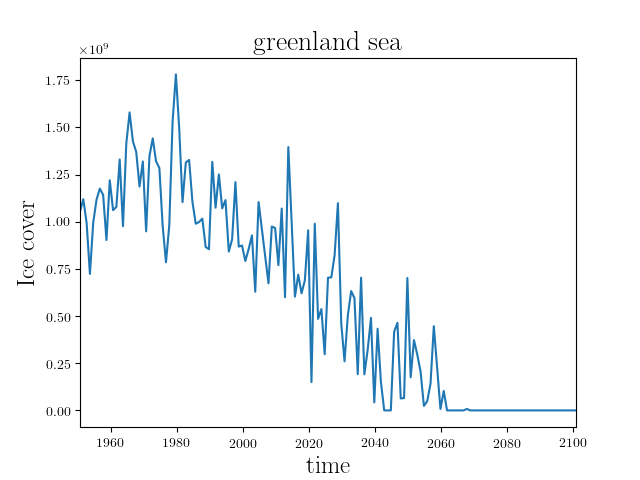
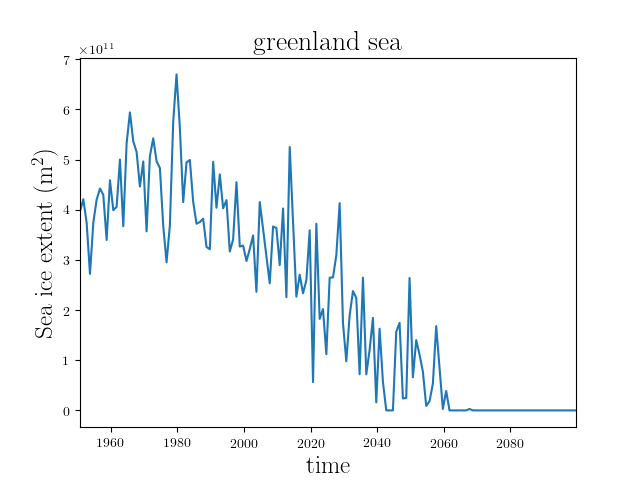
fixed the sea ice extension unit (mean->sum)

diff --git a/Forcings/basic_map.py b/Forcings/basic_map.py
@@ -16,11 +16,12 @@ import numpy as np
 import make_plot
 import loading
 
-var = 'ML'
-option = 'Coupled'
+var = 'runoff'		#sal, runoff, albedo, downHF
+option = 'Uncoupled'
 specificity = ''
-y1 = 2090
+y1 = 2050
 y2 = 2100
+control = 'Uncoupled'   # Uncoupled or historic
 
 comparison = 'yes'
 
@@ -42,8 +43,8 @@ class From1950to2100():                                                         
                            +str(self.y2)+'_'+str(option)                                #//
      elif compa == 'yes':
         self.output_file = str(var)+'_map_'+str(self.y1)+'to'\
-                           +str(self.y2)+'AnoTo90s_'+str(option)                                #//
-     self.path = '/media/fig010/LACIE SHARE/EC_Earth/EC_data/EC_start_'+str(option)+'.nc'
+                           +str(self.y2)                                #//
+     self.path = '/media/fig010/LACIE SHARE/EC_Earth/EC_data/Forcings_'+str(option)+'.nc'
 
      if compa == 'yes':
       if var == 'temp':                                                                 #//
@@ -55,83 +56,63 @@ class From1950to2100():                                                         
       elif var == 'ML':
         self.vmin = -20
         self.vmax = 20
-      elif var == 'IceC':
-        self.vmin = -1
-        self.vmax = 0.
+      elif var == 'runoff':
+        self.vmin = -1E20
+        self.vmax = 1E20
 
      elif compa =='no':
-      if var == 'IceC':
-	self.vmin = 0
-        self.vmax = 1
-      elif var == 'ML':
-        self.vmin = 12
-        self.vmax = 70
-      elif var == 'temp':                                                                #//
-        self.vmin = -1.2                                                               #//
-        self.vmax = 15                                                               #//
-      elif var == 'sal':                                                               #//
+       if var == 'sal':                                                               #//
         self.vmin = 31.92                                                               #//
         self.vmax = 34.86                                                               #//
+       elif var == 'runoff':
+        self.vmin = 1*1E8                                                                   #//
+        self.vmax = 1E20                                                                  #//
+       elif var == 'downHF':
+        self.vmin = 0                                                                   #//
+        self.vmax = 30                                                                  #//
+       elif var == 'albedo':
+        self.vmin = 0                                                                   #//
+        self.vmax = 10 
 
      return                                                                             #//
 #//////////////////////////////////////////////////////////////////////////////////////////
 
 
-#//////////////////////////////////////////////////////////////////////////////////////////
-class yearly1950to2100():                                                               #//
-                                                                                        #//
-  #_____________________________________                                                #//
-  def __init__(self, option, var,y1,y2,compa):                                                      #//
-      self.path = '/media/fig010/LACIE SHARE/EC_Earth/EC_data/classic_YearlyMeans_'+str(option)+'.nc' 
-      self.max_depth = 1000                                                             #//
-      self.first_year = 1950                                                            #//
-      self.last_year = 2100
-      if var == 'temp':                                                                 #//
-        self.vmin = -5                                                                  #//
-        self.vmax = 10                                                                  #//
-      elif var == 'sal':                                                                #//
-        self.vmin = 31.92                                                               #//
-        self.vmax = 34.86                                                               #//
-      elif var == 'ML':
-        self.vmin = 0
-        self.vmax = 300
-      self.output_file = str(var)+'_ymeans_'+str(option)                                #//
-                                                                                        #//
-      return                                                                            #//
-                                                                                        #//
-#//////////////////////////////////////////////////////////////////////////////////////////
-
-
-
-#months = ['jan','feb','mars','apr','mai','june','july','aug','sept','oct','nov','dec']
-#i_month = months.index(month)
 
 simu = From1950to2100(option,specificity,var,y1,y2,comparison)
 
-if var == 'ML' or var == 'IceC':
+if var == 'ML' or var == 'runoff':
   yr, xr, time = loading.extracting_coord_2D(simu.path)
 else:
   yr, xr, time, depth = loading.extracting_coord(simu.path)
 
-print(np.shape(time),np.shape(xr))
-VarArray_simu = loading.extracting_var(simu.path, var)
 
+VarArray_simu = loading.extracting_var(simu.path, var)
 index_y1 = np.min(np.where(simu.first_year+time[:]/(3600*24*364.5)>simu.y1))
 index_y2 = np.min(np.where(simu.first_year+time[:]/(3600*24*364.5)>simu.y2))
 
 
 if comparison == 'no':
-   if var == 'ML' or var == 'IceC':
-     make_plot.plot_map(xr,yr,np.mean(VarArray_simu[:,:,index_y1:index_y2+1],axis=2) ,var,title_plot,simu.output_file,simu.vmin,simu.vmax)
-   else:
-     make_plot.plot_map(xr,yr,np.mean(VarArray_simu[:,:,0,index_y1:index_y2+1],axis=2) ,var,title_plot,simu.output_file,simu.vmin,simu.vmax)
+   array_to_plot = np.mean(VarArray_simu[:,:,index_y1:index_y2+1],axis=2)
+   print(np.nanmax(array_to_plot))
+   array_to_plot[array_to_plot==0] = np.nan
+   array_to_plot = np.ma.masked_invalid(array_to_plot)
+   make_plot.plot_map(xr,yr,array_to_plot ,var,title_plot,simu.output_file,simu.vmin,simu.vmax)
 elif comparison == 'yes':
-   index_y1c = np.min(np.where(simu.first_year+time[:]/(3600*24*364.5)>simu.y1_compa))
-   index_y2c = np.min(np.where(simu.first_year+time[:]/(3600*24*364.5)>simu.y2_compa))
-   if var == 'ML' or var == 'IceC':
-     make_plot.plot_map(xr,yr,np.mean(VarArray_simu[:,:,index_y1:index_y2+1],axis=2)-np.mean(VarArray_simu[:,:,index_y1c:index_y2c+1],axis=2) ,var,title_plot,simu.output_file,simu.vmin,simu.vmax)
-   else:
-     make_plot.plot_map(xr,yr,np.mean(VarArray_simu[mask,0,index_y1:index_y2+1],axis=2)-np.mean(VarArray_simu[mask,0,index_y1c:index_y2c+1],axis=2) ,var,title_plot,simu.output_file,simu.vmin,simu.vma)
+   if control == 'Uncoupled':
+     path2 = '/media/fig010/LACIE SHARE/EC_Earth/EC_data/Forcings_Coupled.nc'
+     Coupled_array = loading.extracting_var(path2, var)
+     out = str(simu.output_file)+'CvsUC'
+     array_to_plot = np.mean(Coupled_array[:,:,index_y1:index_y2+1],axis=2)-np.mean(VarArray_simu[:,:,index_y1:index_y2+1],axis=2)
+   else: 
+     out = str(simu.output_file)+'AnoTo90s_'+str(option)
+     index_y1c = np.min(np.where(simu.first_year+time[:]/(3600*24*364.5)>simu.y1_compa))
+     index_y2c = np.min(np.where(simu.first_year+time[:]/(3600*24*364.5)>simu.y2_compa))
+     array_to_plot = np.mean(VarArray_simu[:,:,index_y1:index_y2+1],axis=2)-np.mean(VarArray_simu[:,:,index_y1c:index_y2c+1],axis=2)
+
+   array_to_plot[array_to_plot==0] = np.nan
+   array_to_plot = np.ma.masked_invalid(array_to_plot)
+   make_plot.plot_map(xr,yr,array_to_plot,var,title_plot,out,simu.vmin,simu.vmax)
 
 
           

diff --git a/Sept_Ice/time_serie_ice_extent.py b/Sept_Ice/time_serie_ice_extent.py
@@ -19,9 +19,9 @@ import loading
 
 var = 'IceC'			# sal, temp, IceC, ML
 option = 'Uncoupled'		# Coupled, Uncoupled
-y1 = 2040
-y2 = 2060
-month = 'Sept'                  #Sept or April
+y1 = 1950
+y2 = 2100
+month = 'april'                  #Sept or April
 basin ='arctic_ocean'		# arctic_ocean, BS_and_KS, undefined
 lat_min = 66.34 		#IF basin = 'undefined'
                                 #ex: 66.34 for polar circle
@@ -87,12 +87,12 @@ def var_fc_time(var,variable_name,t,first_year_file,lat_min,name_outfile,ocean):
   #plt.ylim([0.,0.75])
   if variable_name == 'IceC':
      plt.plot(first_year_file+t,var)
-     plt.ylabel('Ice cover',fontsize=18)
+     plt.ylabel('Sea ice extent (m$^{2}$)',fontsize=18)
   plt.xlabel('time',fontsize=18)
   if ocean == 'undefined':
-      plt.title('Mean Arctic ($>$'+str(lat_min)+'$^{o}$N)')
+      plt.title('Arctic mediterranean seas ($>$'+str(lat_min)+'$^{o}$N)')
   else:
-      plt.title(str(ocean.replace("_"," ")),size=20)
+      plt.title(str(ocean.replace("_"," ")))
   plt.savefig(str(variable_name)+'/'+str(name_outfile.replace(".",""))+'.png')
   return
 
@@ -107,13 +107,11 @@ def time_serie_sea_ice_ext(path,var,lat_min,basin):
   else:
      mask = loading.Ocean_mask(xr,yr,basin)
   area = size_each_bins(xr,yr)
-  print(np.mean(area))
   ice[np.where(ice<0.15)]=0.
   ice[np.where(ice>0.15)]=1.
 
   ice_extent = area[mask]*ice[mask].transpose(1, 0) 
-  print(np.shape(ice_extent))
-  mean_ice_ext = np.nanmean(ice_extent,axis=1)
+  mean_ice_ext = np.nansum(ice_extent,axis=1)
   return time, mean_ice_ext
 
   
@@ -128,17 +126,16 @@ def size_bin(x0, x1, x2, y0, y1, y2):
 def size_each_bins(xr,yr):
 
   area = np.zeros_like((xr))
-  for j in range(1,np.size(xr[0,:])-1):
+  '''for j in range(1,np.size(xr[0,:])-1):
     area[0,j] = size_bin(xr[-1,j], xr[0,j], xr[1,j], yr[0,j-1], yr[0,j], yr[0,j+1])
     area[-1,j] = size_bin(xr[-2,j], xr[-1,j], xr[0,j], yr[-1,j-1], yr[-1,j], yr[-1,j+1])
   
   for i in range(1,np.size(xr[:,0])-1):
     area[i,0] = size_bin(xr[i-1,0], xr[i,0], xr[i+1,0], yr[i,0], yr[i,0], yr[i,1])
-    area[i,-1] = size_bin(xr[i-1,-1], xr[i,-1], xr[i+1,-1], yr[i,-2], yr[i,-1], yr[i,-1])
+    area[i,-1] = size_bin(xr[i-1,-1], xr[i,-1], xr[i+1,-1], yr[i,-2], yr[i,-1], yr[i,-1])'''
   for i in range(1,np.size(xr[:,0])-1):
     for j in range(1,np.size(xr[0,:])-1):
       area[i,j] = size_bin(xr[i-1,j], xr[i,j], xr[i+1,j], yr[i,j-1], yr[i,j], yr[i,j+1])
-  print(np.mean(area), np.max(area))
   return area 
  # - - - - - - - - - - - - - - - - - - - - - - - - - - - - - - - - - - - - - - - - - - - - 
  # - - - - - - - - - - - - - - - - - - - - - - - - - - - - - - - - - - - - - - - - - - - - 
@@ -146,18 +143,7 @@ def size_each_bins(xr,yr):
 
 simu = From1950to2100(option,var,y1,y2,comparison,lat_min,basin,month) 
 time, ice_extent = time_serie_sea_ice_ext(simu.path,var,lat_min,basin)
-print(np.max(ice_extent))
 index_y1 = np.min(np.where(simu.first_year+time[:]/(3600*24*364.5)>simu.y1))
 index_y2 = np.min(np.where(simu.first_year+time[:]/(3600*24*364.5)>simu.y2))
 
 var_fc_time(ice_extent[index_y1:index_y2+1],var,time[index_y1:index_y2+1],simu.first_year,lat_min,simu.output_file,basin)
-# JUST ONE TIME SERIE PLOT
-print(ice_extent[-13])
-print(time[-13]/(3600*24*364.5))
-'''
-mean_5y = np.zeros(((index_y2-index_y1)/5))
-t_5y = np.zeros_like((mean_5y))
-for t in range(0,np.size(mean_5y)):
-  mean_5y[t] = np.mean(mean_Arctic_simu[index_y1+5*t:index_y1+5*(t+1)])
-  t_5y[t] = np.mean(time[index_y1+5*t:index_y1+5*(t+1)])
-'''

diff --git a/Sept_Ice/make_plot.py b/Sept_Ice/make_plot.py
@@ -150,7 +150,7 @@ def vertical_profile(var1,var2,y1,y2,variable_name,vmin,vmax,z,zmax,ocean,lat_mi
    plt.ylim([z[i_zmax],0])
    plt.title(str(ocean.replace("_"," ")))
    if ocean == 'undefined':
-      plt.title('Mean Arctic ($>$'+str(lat_min)+'$^{o}$N)')
+      plt.title('Arctic mediterranean seas ($>$'+str(lat_min)+'$^{o}$N)')
    else:
       plt.title(str(ocean.replace("_"," ")))
    box = ax.get_position()
@@ -191,7 +191,7 @@ def time_serie(var,variable_name,t,z,zmax,year,option,vmin,vmax,ocean):
     cbar.set_label(r'Salinity (PSU)',fontsize=18)
 
    if ocean == 'undefined':
-      plt.title('Mean Arctic ($>$66.34$^{o}$N)')
+      plt.title('Arctic mediterranean seas ($>$66.34$^{o}$N)')
    else:
       plt.title(str(ocean.replace("_"," ")),size=20)
 
